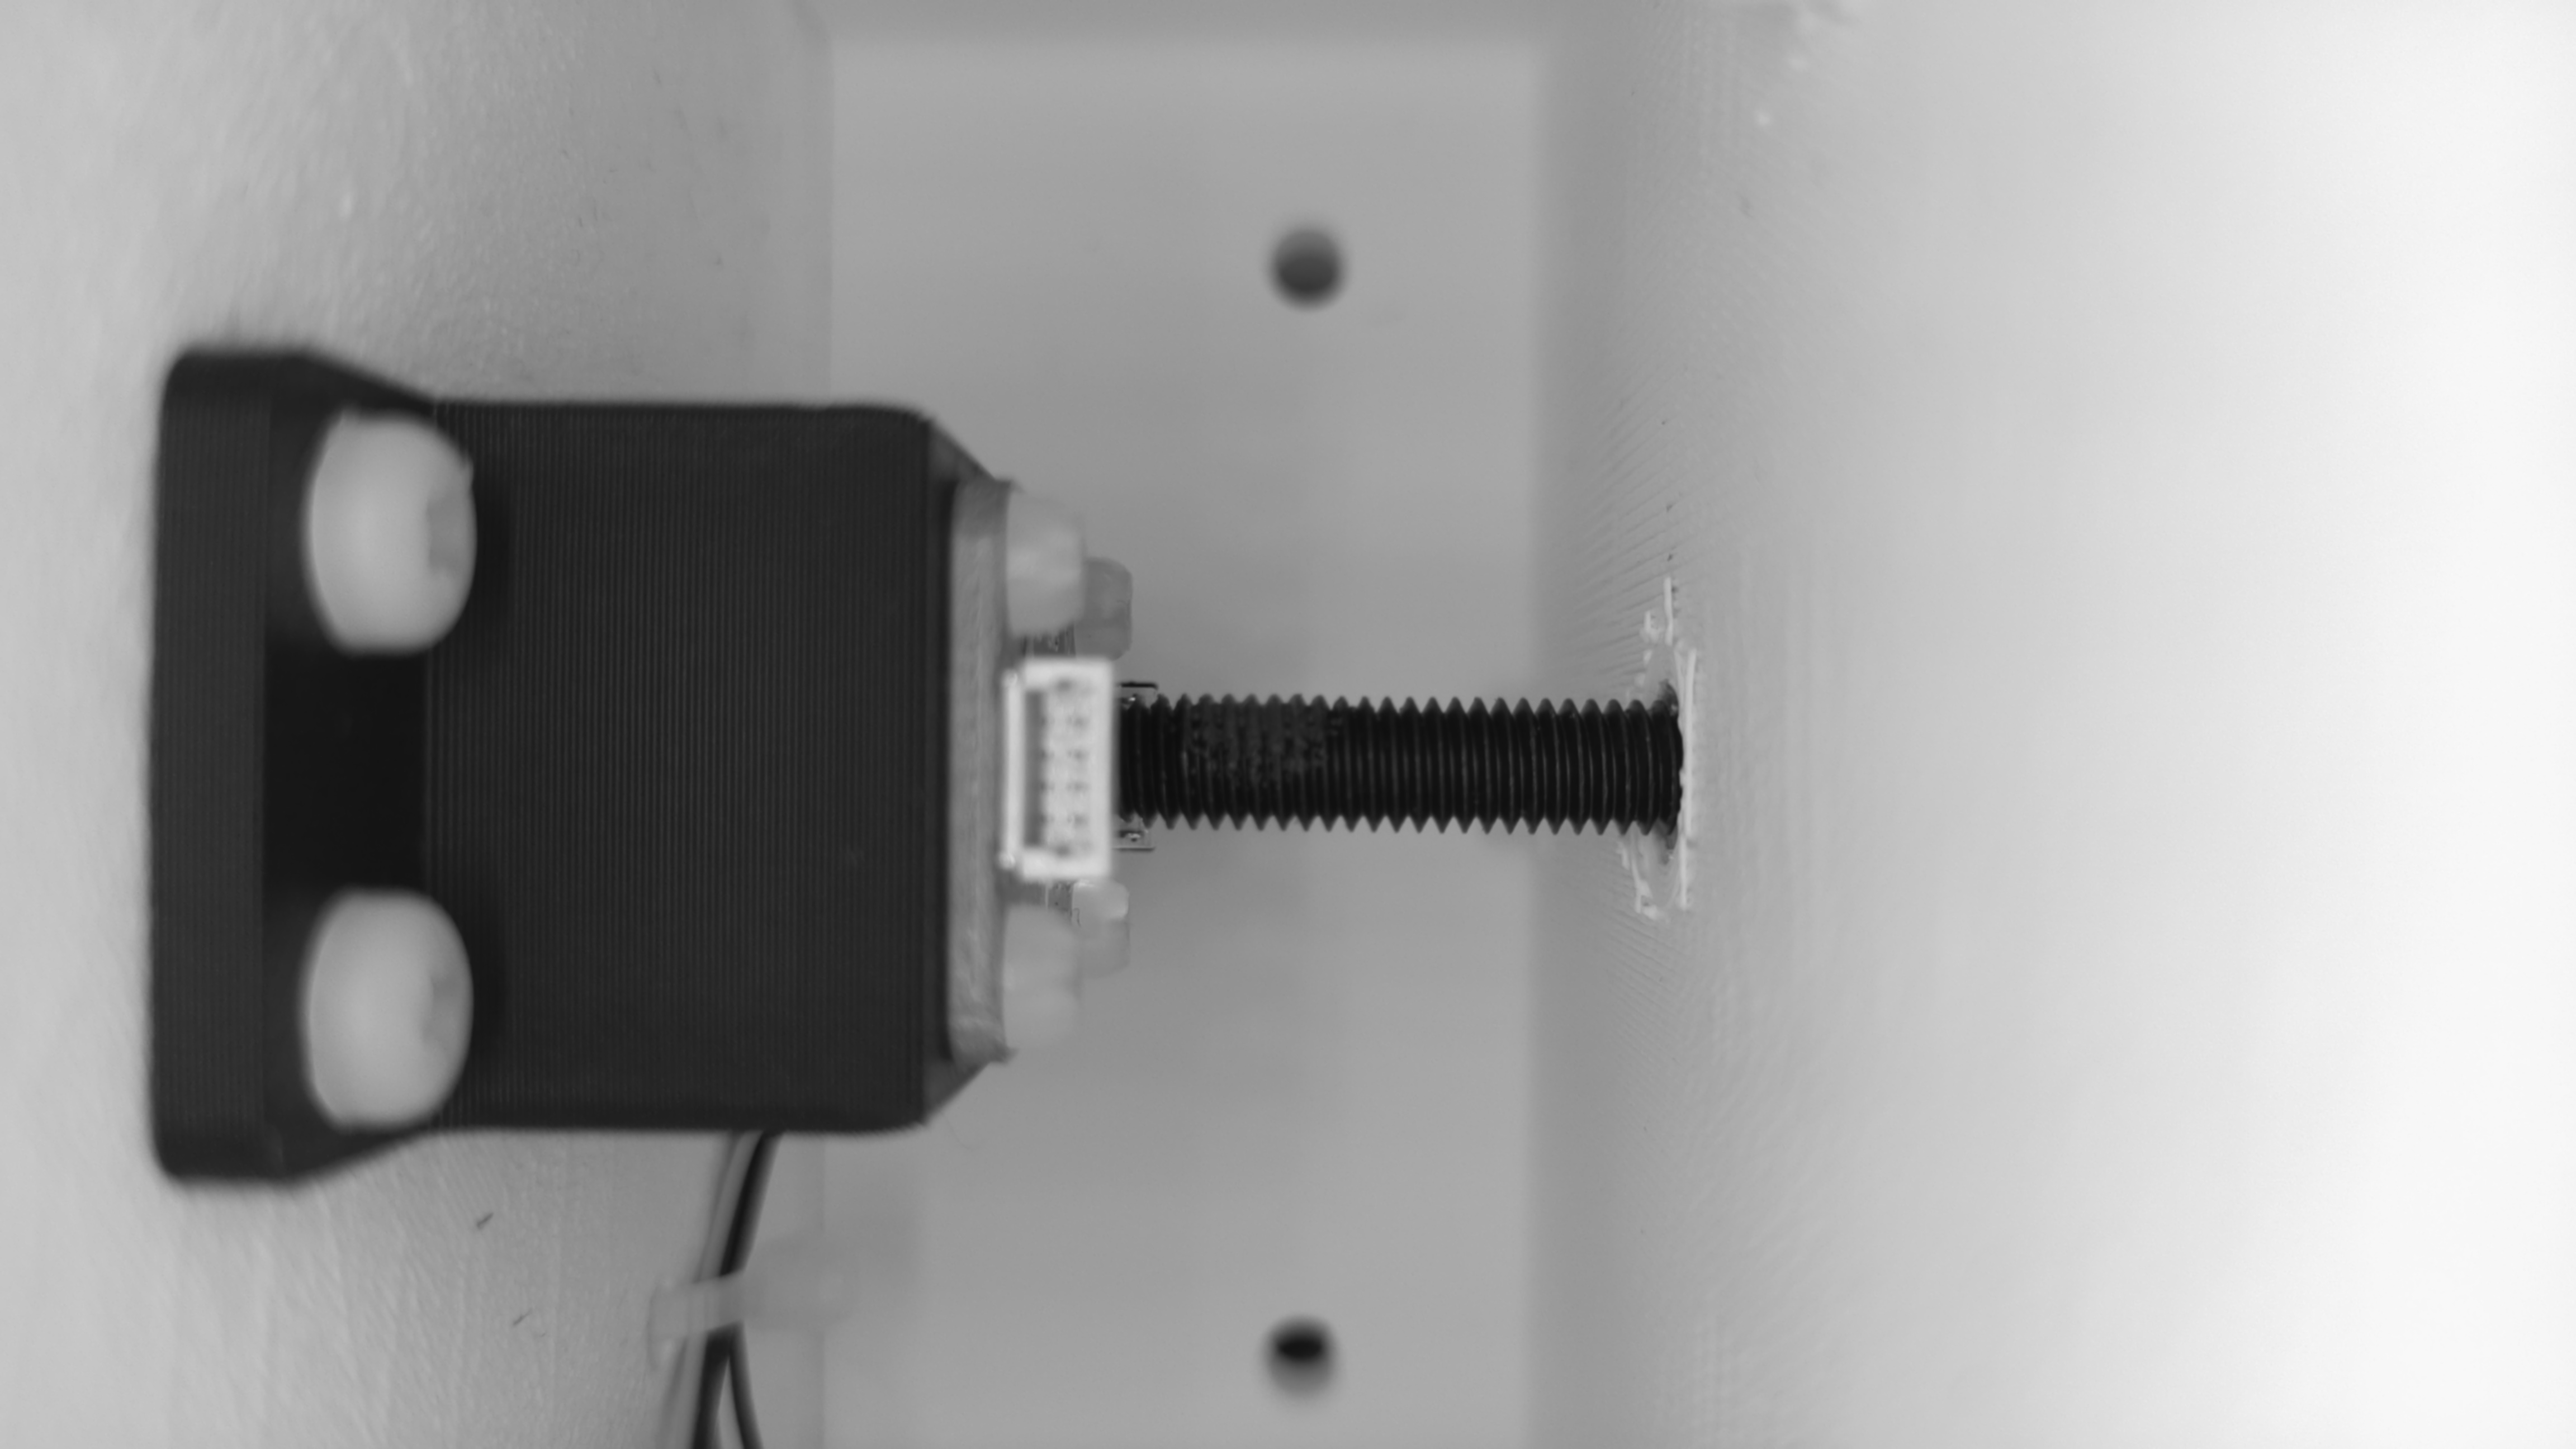
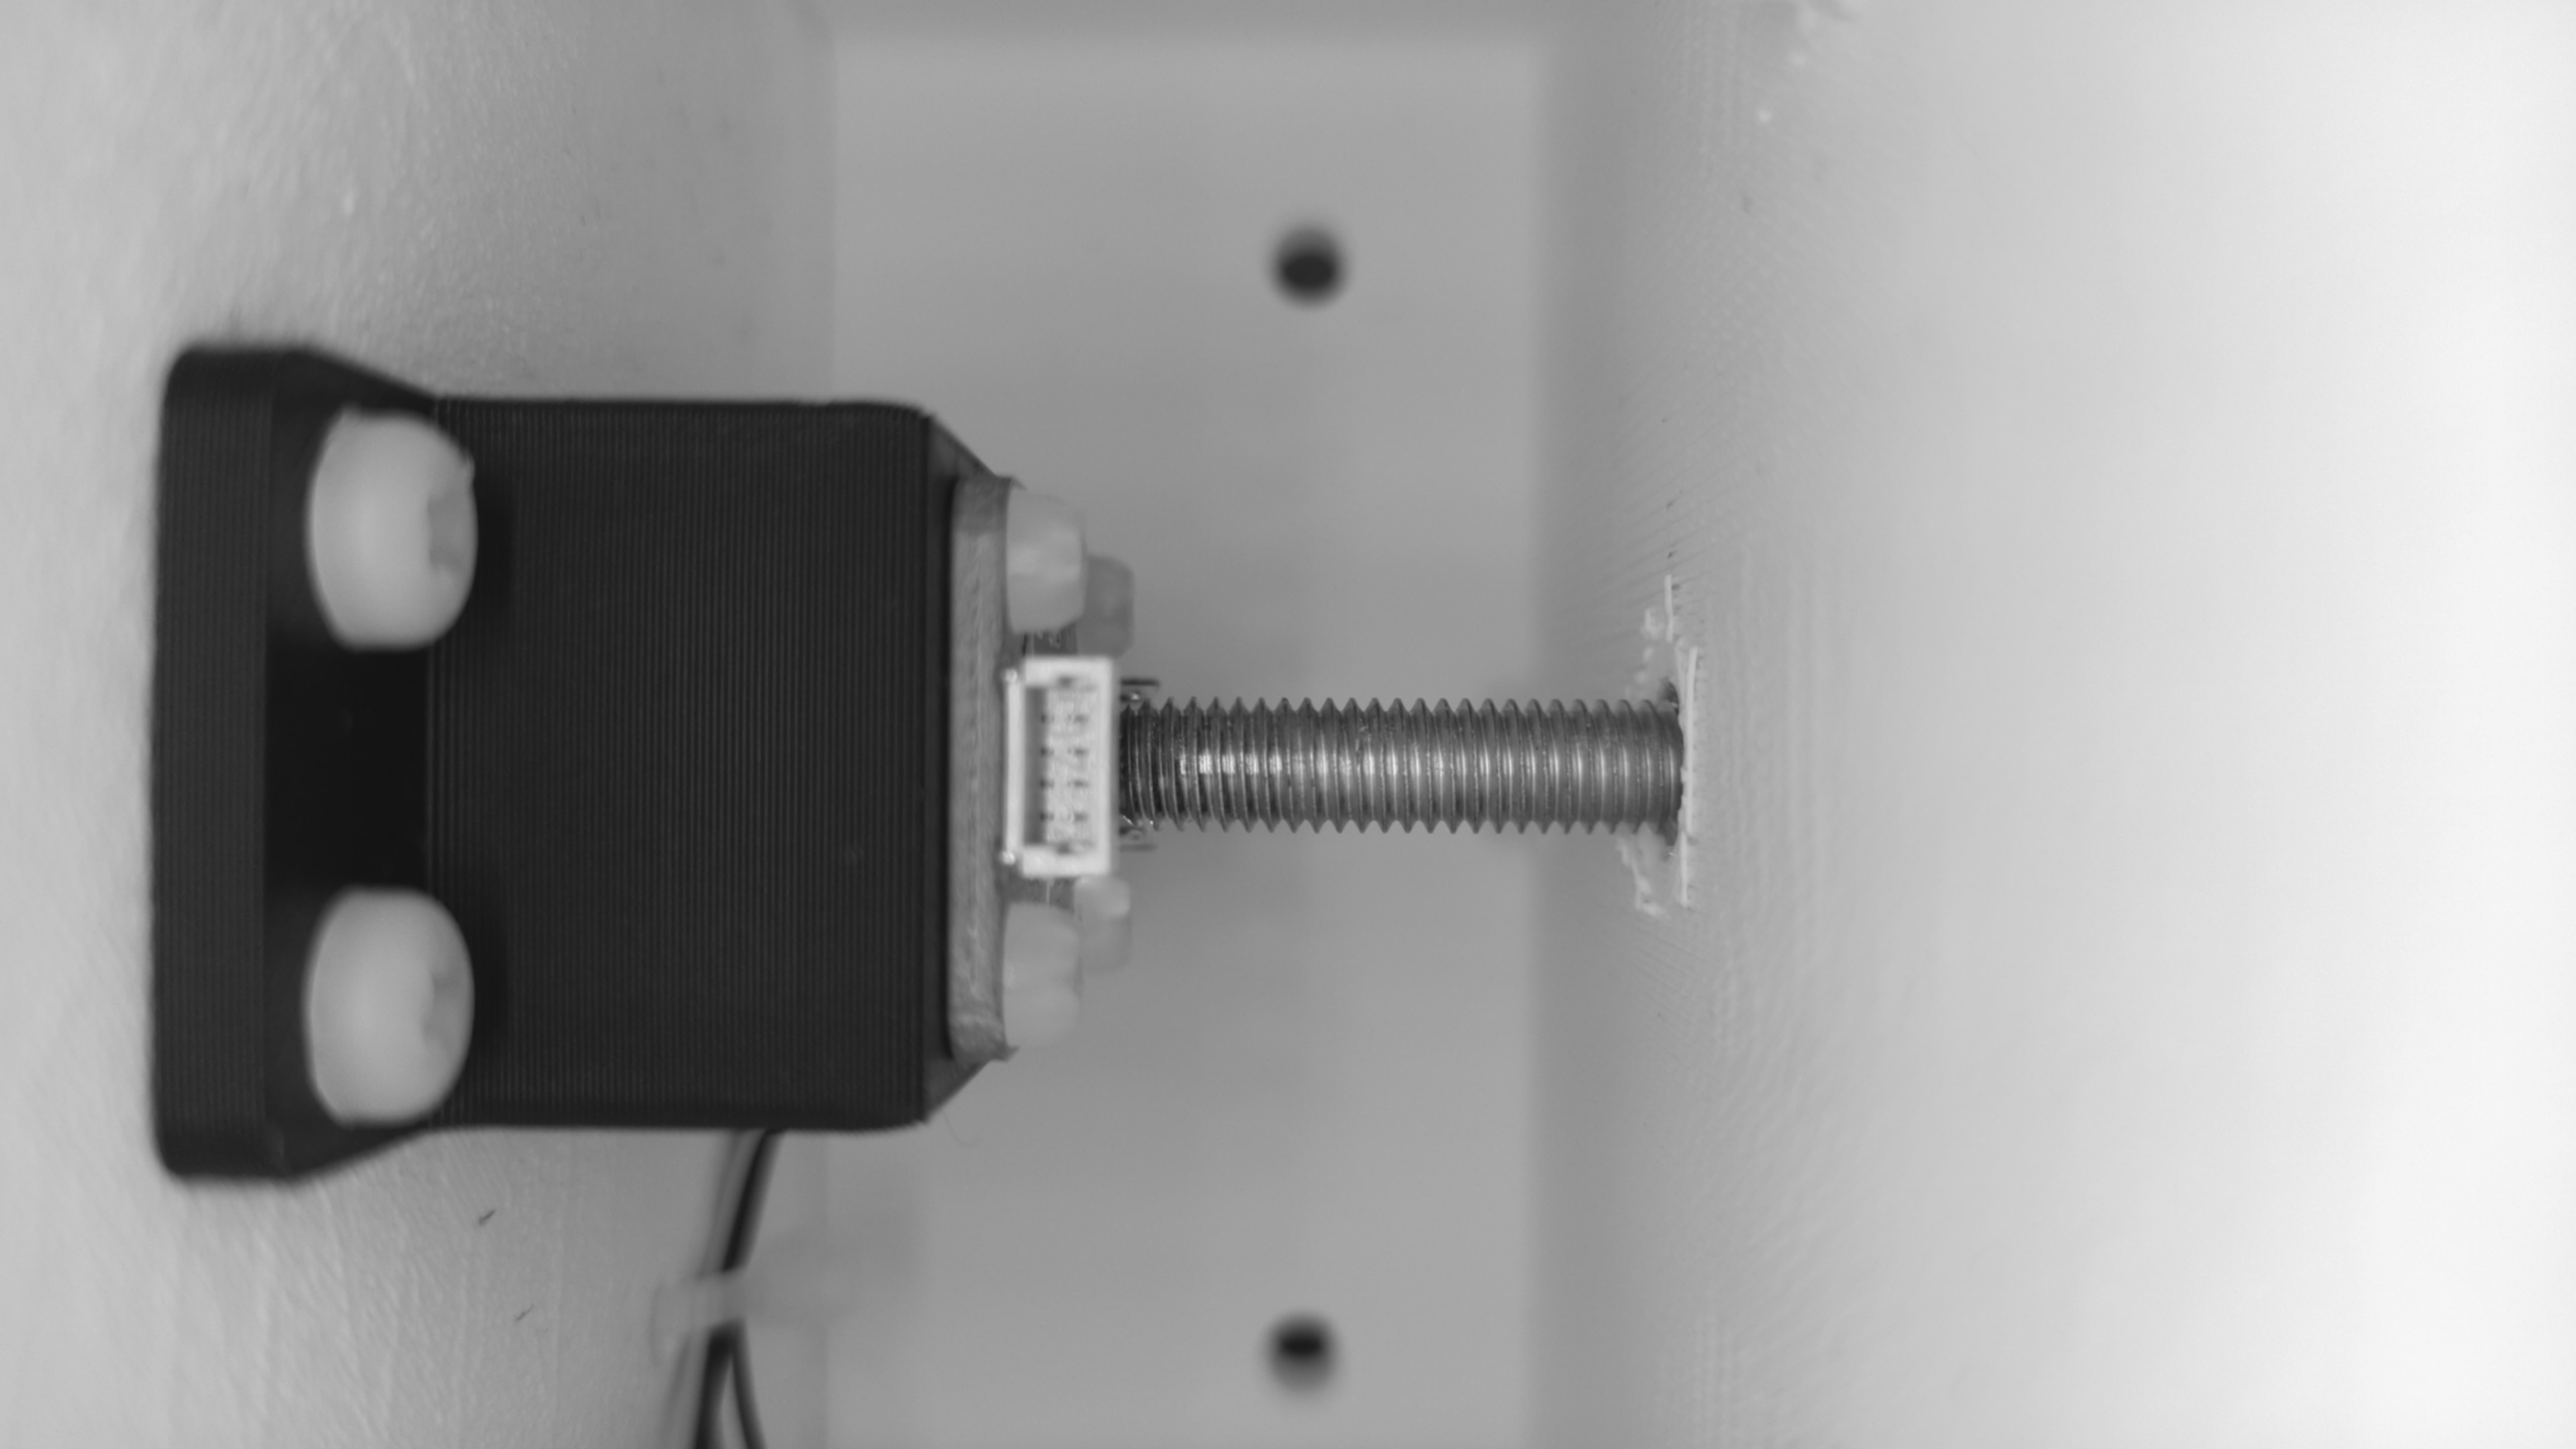
Counts top and bottom row

diff --git a/thread_count.py b/thread_count.py
@@ -5,7 +5,7 @@ import numpy as np
 import imutils
 import cv2 as cv
 
-img = cv.imread('Photos/bolt_shaft black.jpg')
+img = cv.imread('Photos/bolt_shaft ideal.jpg')
 
 if img is None:
     print("Image failed to load")
@@ -21,19 +21,25 @@ cv.imshow('image1.jpg',inv_img)
 # y1 = 1250
 # y2 = 1500
 
-## just the threads
-x1 = 2010
-x2 = 3000
-y1 = 1300
-y2 = 1400
+# ## just the threads
+# x1 = 2010
+# x2 = 3000
+# y1 = 1300
+# y2 = 1400
 
-## focuses on the lower edge
+# # focuses on the lower edge
 # x1 = 2200
 # x2 = 2900
 # y1 = 1480
-# y2 = 1500
+# y2 = 1510
 
-lowerThresh = 10 # ideal(50), oxide(10)
+# focuses on the upper edge
+x1 = 2200
+x2 = 2900
+y1 = 1240 #1240
+y2 = 1255 #1255
+
+lowerThresh = 50 # ideal(50), oxide(10)
 upperThresh = 30 # 
 
 print(img.shape)
@@ -47,15 +53,12 @@ preview = img.copy()
 cv.rectangle(preview, (x1,y1),(x2,y2), (0,255,0), 5) #(x1,y1),(x2,y2) measured from the top left
 cv.imshow("ROI Location", preview)
 
-#cv.imshow('Gray', gray)
-cv.imwrite("Photos/output/Gray.jpg", gray)
-
 canny = gray.copy()*0
 canny[y1:y2, x1:x2] = cv.Canny(gray.copy()[y1:y2, x1:x2], lowerThresh, lowerThresh)
 cv.imshow('Canny Edges', canny)
 cv.imwrite("Photos/output/Canny Edges Shaft.jpg", canny)
 
-canny = cv.dilate(canny, None, iterations=3) # ideal(5), oxide(3)
+canny = cv.dilate(canny, None, iterations=6) # ideal(5), oxide(3)
 canny = cv.erode(canny, None, iterations=1)
 
 
@@ -67,21 +70,57 @@ cv.imwrite("Photos/output/Contours 50.jpg", Contours)
 cv.imshow('Contours', Contours)
 
 idealBoltPhoto = img.copy()
-threads = []
+upThreads = []
 
 for contour in contours:
     area = cv.contourArea(contour)
 
-    if 800 < area : # ideal(500), oxide(800)
+    if 10 < area : # ideal(500), oxide(800)
         print(area)
-        threads.append(contour)
+        upThreads.append(contour)
+        cv.drawContours(idealBoltPhoto, [contour], -1, (0, 255, 0), 2)
+
+# focuses on the lower edge
+x1 = 2200
+x2 = 2900
+y1 = 1480
+y2 = 1510
+
+preview = img.copy()
+cv.rectangle(preview, (x1,y1),(x2,y2), (0,255,0), 5) #(x1,y1),(x2,y2) measured from the top left
+cv.imshow("ROI Location", preview)
+
+cannyLow = gray.copy()*0
+cannyLow[y1:y2, x1:x2] = cv.Canny(gray.copy()[y1:y2, x1:x2], lowerThresh, lowerThresh)
+cv.imshow('Canny Edges', cannyLow)
+cv.imwrite("Photos/output/Canny Edges Shaft.jpg", cannyLow)
+
+cannyLow = cv.dilate(cannyLow, None, iterations=6) # ideal(5), oxide(3)
+cannyLow = cv.erode(cannyLow, None, iterations=1)
+
+
+lowContours, hierarchies = cv.findContours(cannyLow, cv.RETR_LIST, cv.CHAIN_APPROX_NONE)
+
+Contours = img.copy()
+cv.drawContours(Contours, lowContours, -1, (0,255,0), 2) #cv.drawContours(image being drawn on, contours, which contours to draw? just use -1, color, line thickness)
+cv.imwrite("Photos/output/Contours 50.jpg", Contours)
+cv.imshow('Contours', Contours)
+
+lowThreads = []
+
+for contour in lowContours:
+    area = cv.contourArea(contour)
+
+    if 10 < area : # ideal(500), oxide(800)
+        print(area)
+        lowThreads.append(contour)
         cv.drawContours(idealBoltPhoto, [contour], -1, (0, 255, 0), 2)
             
 #cv.drawContours(idealBoltPhoto, contours, -1, (0,255,0), 10) #cv.drawContours(image being drawn on, contours, which contours to draw? just use -1, color, line thickness)
 cv.imshow('Contours', idealBoltPhoto)
 cv.imwrite("Photos/output/Contours on the Ideal Bolt.jpg", idealBoltPhoto)
 
-print(f'\n There are {len(threads)} threads in the image') # Should be 24 when looking at just the threads
+print(f'\n There are {len(lowThreads)} threads in the image') # Should be 24 when looking at just the threads
 
 
 cv.waitKey(0)

diff --git a/standardized_markings.py b/standardized_markings.py
@@ -1,7 +1,7 @@
 import numpy as np
 import cv2 as cv
 
-img = cv.imread('Photos/bolt_head ideal.jpg') # 18 seems to be in more focus
+img = cv.imread('Photos/bolt_head black.jpg') # 18 seems to be in more focus
 
 # ROI parameters
 center = (2205,1635) # true center is (2304,1296)
